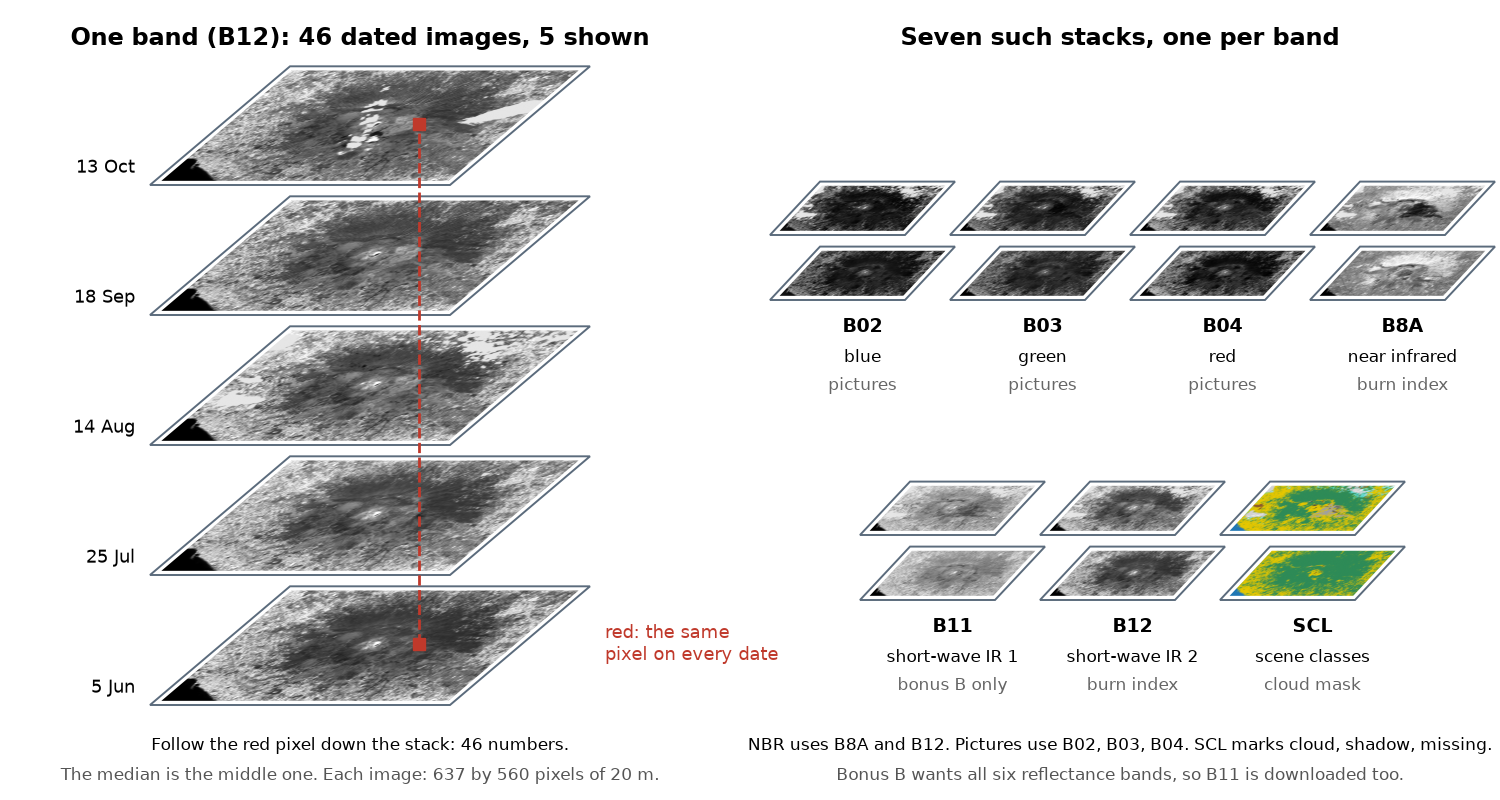
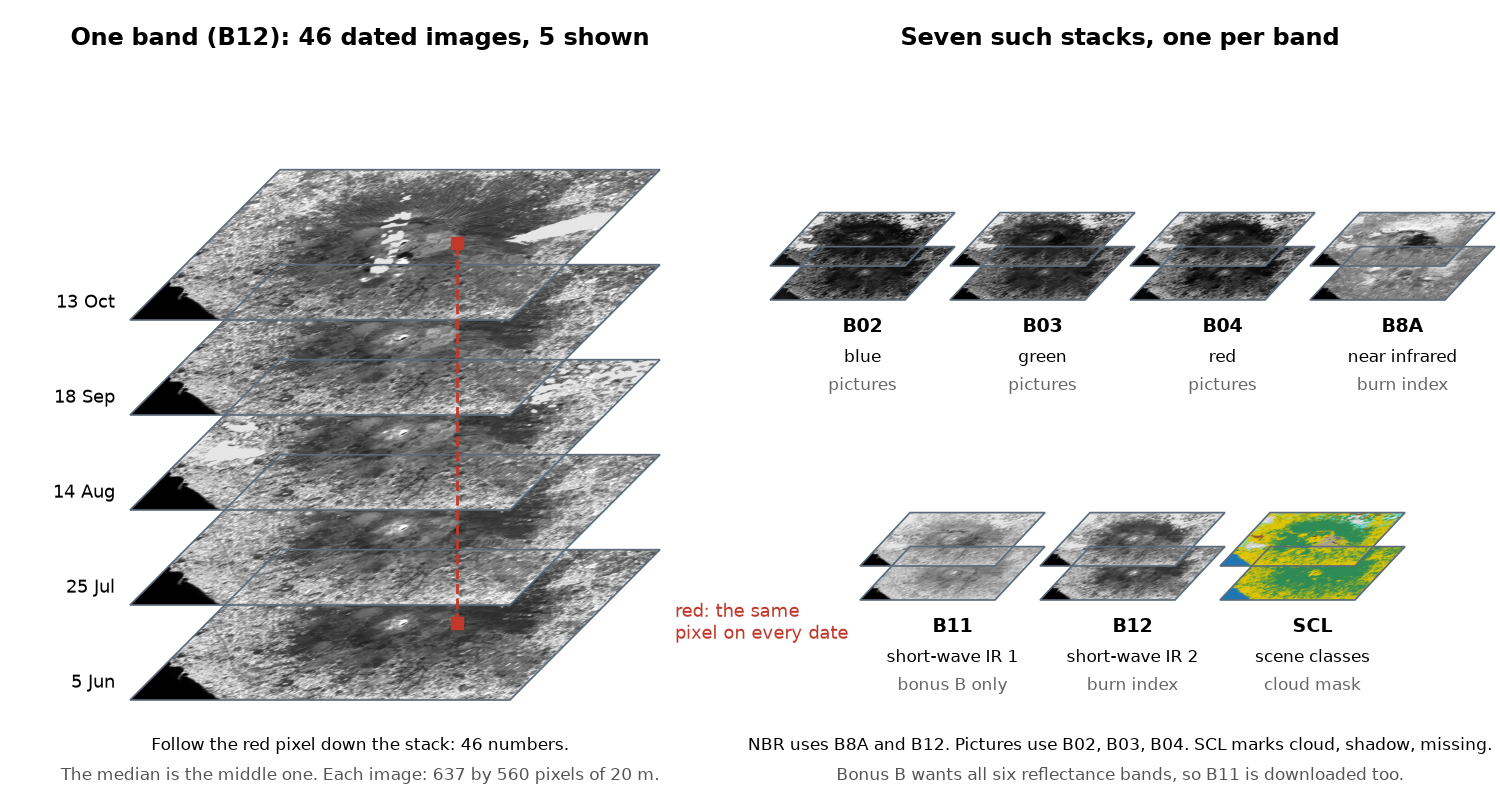
Cube figure: overlapping plates with proper occlusion

diff --git a/scripts/make_cube_figure.py b/scripts/make_cube_figure.py
@@ -55,8 +55,7 @@ def draw_layer(ax, image, x0, y0, width, shear, cmap="gray", vmin=0, vmax=1, edg
                     interpolation="bilinear", origin="upper")
     art.set_transform(trans + ax.transData)
     corners = trans.transform([[0, 0], [width, 0], [width, height], [0, height]])
-    ax.add_patch(Polygon(corners, closed=True, fill=False, edgecolor="white", linewidth=6))
-    ax.add_patch(Polygon(corners, closed=True, fill=False, edgecolor=edge, linewidth=1.4))
+    ax.add_patch(Polygon(corners, closed=True, fill=False, edgecolor=edge, linewidth=1.2))
     return trans
 
 
@@ -85,7 +84,7 @@ def main() -> Path:
     ax.text(11.2, 7.55, "Seven such stacks, one per band", ha="center", fontsize=TITLE, weight="bold")
 
     # Left: the big stack, oldest at the bottom, one pixel followed through it.
-    width, shear, step, x0, y0 = 3.0, 1.4, 1.3, 1.5, 0.95
+    width, shear, step, x0, y0 = 3.8, 1.5, 0.95, 1.3, 1.0
     marks = []
     for k, day in enumerate(STACK_DATES):
         trans = draw_layer(ax, grey(refl["B12"].sel(time=day).squeeze("time").values),
@@ -103,7 +102,7 @@ def main() -> Path:
             ha="center", fontsize=SMALL, color="#555")
 
     # Right: a small stack per band, the same two dates in each.
-    swidth, sshear, sstep = 1.35, 0.5, 0.65
+    swidth, sshear, sstep = 1.35, 0.5, 0.34
     positions = [(7.7, 5.0), (9.5, 5.0), (11.3, 5.0), (13.1, 5.0), (8.6, 2.0), (10.4, 2.0), (12.2, 2.0)]
     for (band, meaning, job), (sx, sy) in zip(BANDS, positions):
         for k, day in enumerate(SMALL_DATES):
